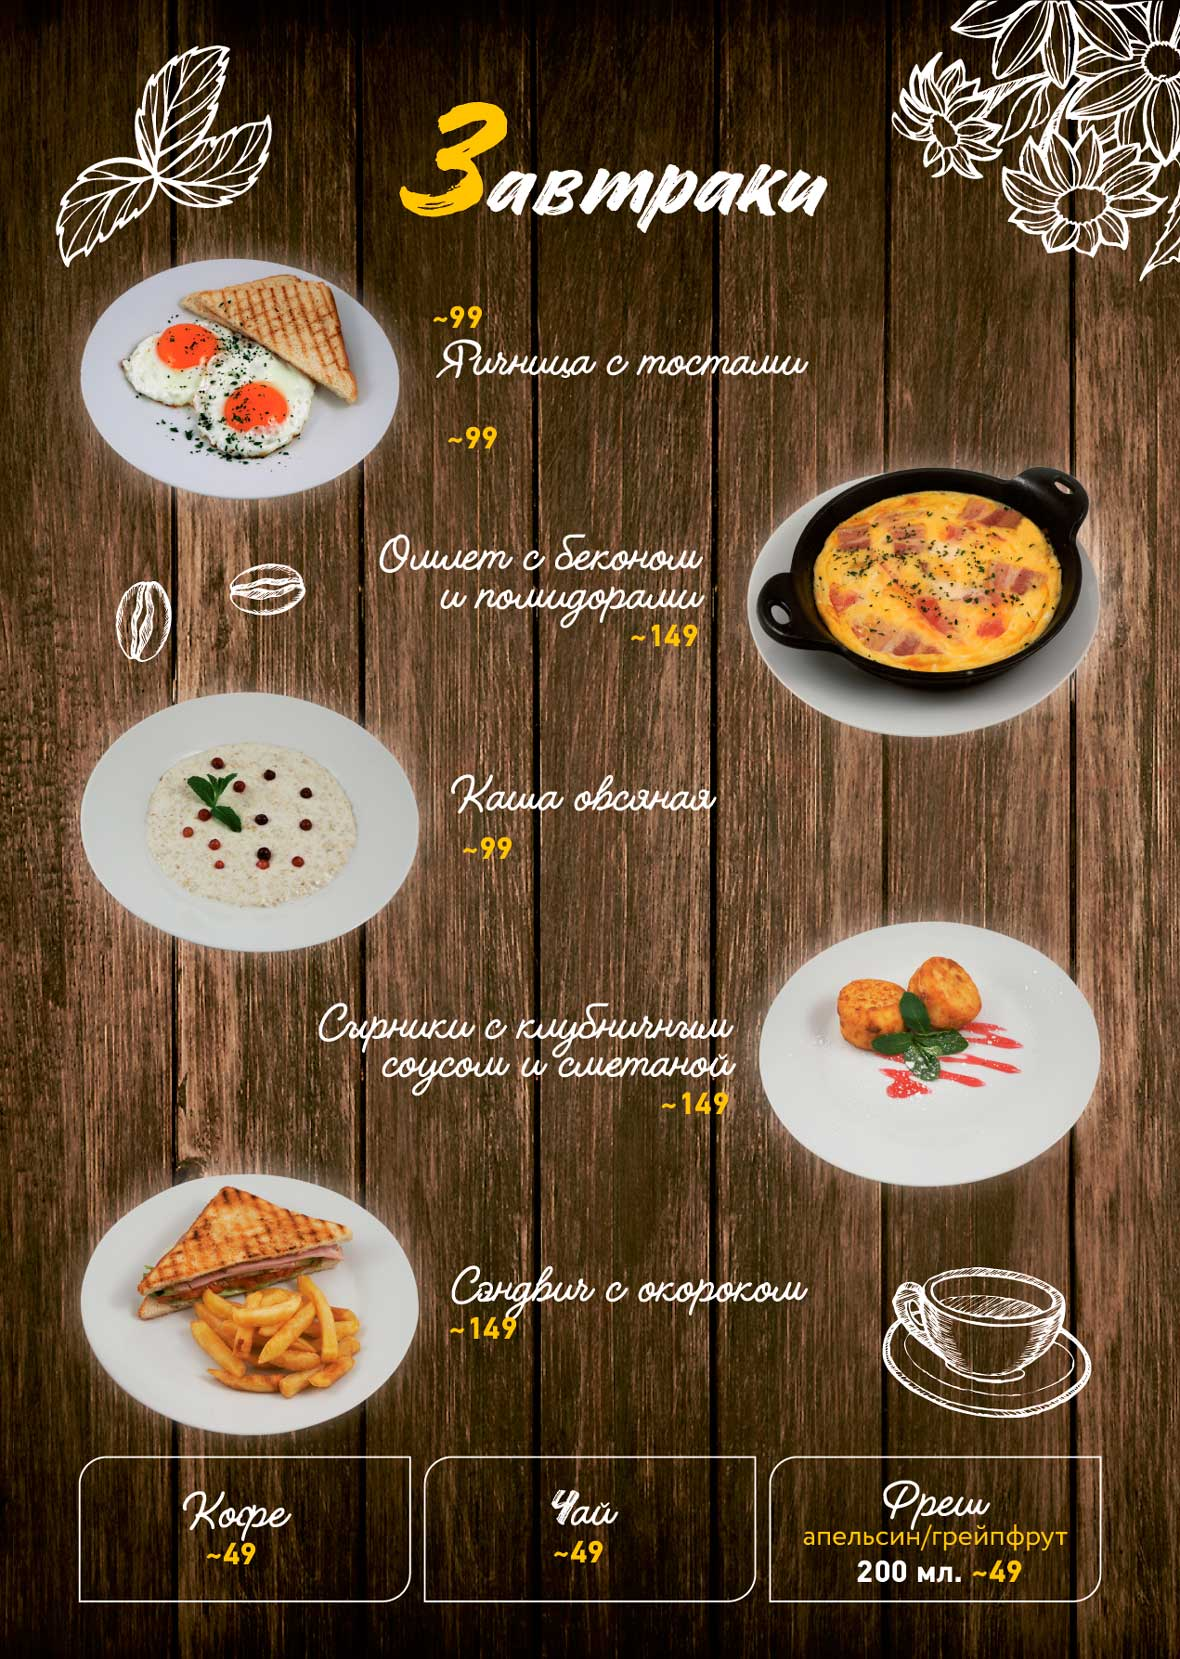
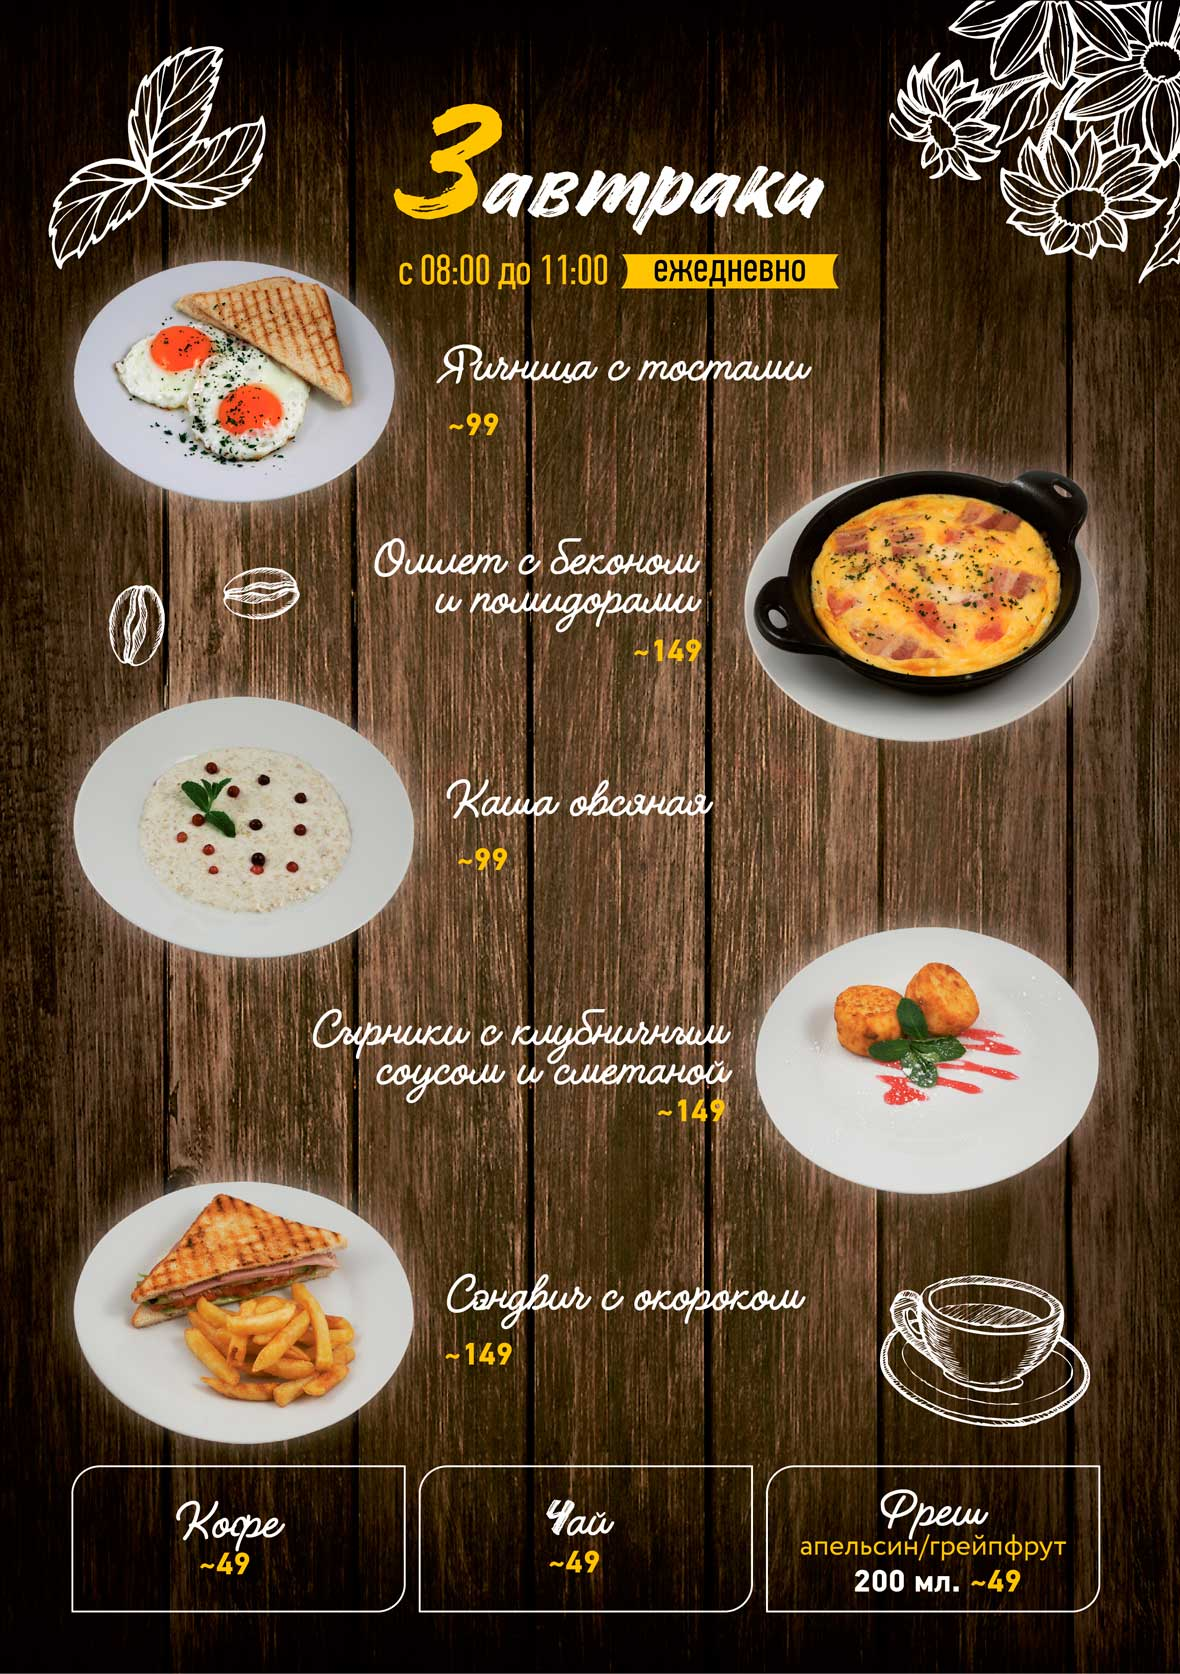
обновление завтраков

diff --git a/menu.php b/menu.php
@@ -1877,6 +1877,7 @@
 
         <div class="tabs__content animated fadeIn" id="breakfasts">
             <div class="food-menu-breakfasts">
+                
 
                <div class="food-menu-breakfasts-advertisment grid">
                     <div class="left-item">
@@ -1888,8 +1889,12 @@
                     <div class="right-item">
                         <span>от 149<strong>j</strong> до 179<strong>j</strong> </span>
                     </div>
-                </div> 
-                <div class="breakfast-content-border grid">
+                </div>
+                
+                <img style="margin-bottom: 40px;" src="img/menu/breakfast/breakfast.jpg" alt="" class="img-fluid">
+                
+                
+<!--                <div class="breakfast-content-border grid">
                     <div class="breakfast-horizontal-separator"></div>
                     <div class="breakfast-horizontal-separator-header header-font grid">
                         <span class="center">горячее + напиток</span>
@@ -1898,8 +1903,8 @@
                         </div>
                     </div>
                     <div class="breakfast-horizontal-separator"></div>
-                </div>
-                <div class="breakfast-content ">
+                </div>-->
+<!--                <div class="breakfast-content ">
                     <div class="breakfast-content-item">
                         <img src="img/menu/breakfast/img1.jpg" alt="Яичница" title="Яичница" class="img-fluid img-hover"> 
                         <p>ЯИЧНИЦА С ТОППИНГАМИ НА ВЫБОР (БЕКОН, ПОМИДОРЫ, ЛУК)</p>
@@ -1919,9 +1924,9 @@
                         <img src="img/menu/breakfast/tea-black.jpg" alt="Чай" title="Чай" class="img-fluid img-hover">
                         <p>ЧАЙ ЧЕРНЫЙ / ЧАЙ ЗЕЛЕНЫЙ / КОФЕ АМЕРИКАНО / СОК / АМЕРИКАНО</p>
                     </div>
-                </div>
+                </div>-->
 
-                <div class="breakfast-content-border-2 grid">
+<!--                <div class="breakfast-content-border-2 grid">
                     <div class="breakfast-horizontal-separator"></div>
                     <div class="breakfast-horizontal-separator-header header-font grid">
                         <span class="center">горячее + напиток + десерт или сендвич</span>
@@ -1930,8 +1935,8 @@
                         </div>
                     </div>
                     <div class="breakfast-horizontal-separator"></div>
-                </div>
-                <div class="breakfast-content">    
+                </div>-->
+<!--                <div class="breakfast-content">    
                     <div class="breakfast-content-item">
                         <img src="img/menu/breakfast/img1.jpg" alt="Яичница" title="Яичница" class="img-fluid img-hover"> 
                         <p>ЯИЧНИЦА С ТОППИНГАМИ НА ВЫБОР (БЕКОН, ПОМИДОРЫ, ЛУК)</p>
@@ -1951,8 +1956,8 @@
                         <img src="img/menu/breakfast/tea-black.jpg" alt="Чай" title="Чай" class="img-fluid img-hover">
                         <p>ЧАЙ ЧЕРНЫЙ / ЧАЙ ЗЕЛЕНЫЙ / КОФЕ АМЕРИКАНО / СОК / АМЕРИКАНО</p>
                     </div>
-                </div>
-                <div class="breakfast-content breakfast-content-3col">
+                </div>-->
+<!--                <div class="breakfast-content breakfast-content-3col">
                     <div class="breakfast-content-item-plus"></div>
                     <div class="breakfast-content-item">
                         <img src="img/menu/breakfast/sandwich.jpg" alt="сендвич" title="сендвич" class="img-fluid img-hover"> 
@@ -1970,7 +1975,7 @@
                         <img src="img/menu/breakfast/syrniki.jpg" alt="сыринки" title="сырники" class="img-fluid img-hover">
                         <p>СЫРНИКИ С ТОППИНГАМИ НА ВЫБОР (СМЕТАНА, МЕД, ДЖЕМ)</p>
                     </div>
-                </div>    
+                </div>    -->
 
             </div>   
 
